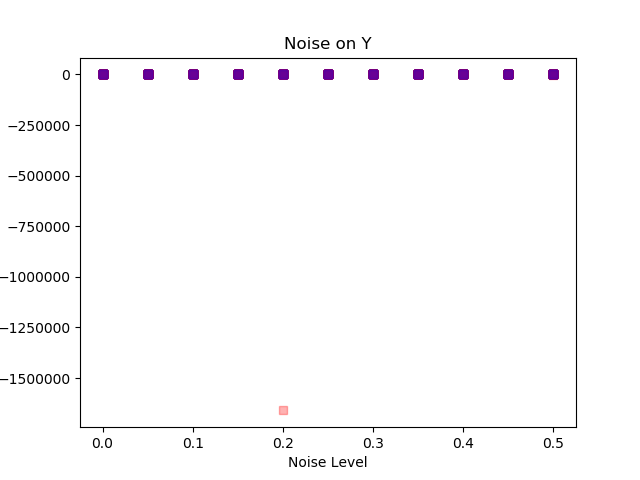
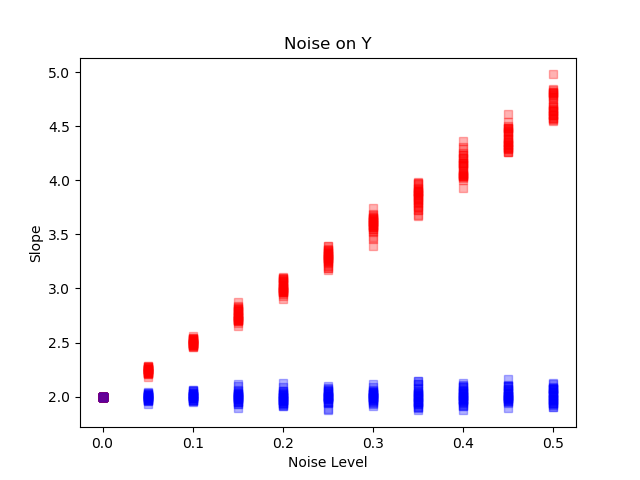
2 works

diff --git a/P4/code.py b/P4/code.py
@@ -190,10 +190,10 @@ def make_plot_1F(nucleobases_size, interesting_vector, file_name):
 def pca_recover(X, Y):
 	vector_list = [X, Y]
 	vector_array = np.array(vector_list)
-	#print("shape of vector array: ", vector_array.shape)
-	pca = run_PCA_get_v(vector_array, 1, 1)
-	slope = pca[0][1] / pca[0][0]
-	return slope
+	print("shape of vector array: ", vector_array.shape)
+	pca = PCA(n_components = 2)
+	pca.fit(vector_array.T)
+	return pca.components_[0][1] / pca.components_[0][0]
 
 def ls_recover(X, Y):
 	X_mean = np.mean(X)
@@ -251,11 +251,12 @@ def make_plot_2(filename, title, X, flag):
 			# print("X", np.sum(X))
 			# print("Y", np.sum(Y))
 
-			if (np.sum(Y) / np.sum(X)) >= 2:
-				print(c)
-				print("X", np.sum(X))
-				print("Y", np.sum(Y))
+			# if (np.sum(Y) / np.sum(X)) >= 2:
+			# 	print(c)
+			# 	print("X", np.sum(X))
+			# 	print("Y", np.sum(Y))
 			pca = pca_recover(X, Y)
+			print("value of pca: ", pca)
 			ls = ls_recover(X, Y)
 			plt.plot(c, pca, 'rs', label = 'pca', alpha=0.3)
 			plt.plot(c, ls, 'bs', label = 'ls', alpha=0.3)
